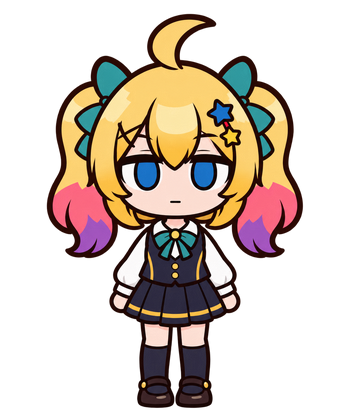
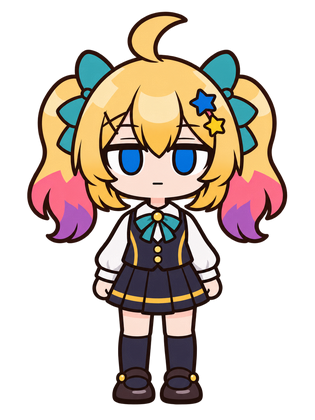
Match mascot body proportions to a shared SD reference

diff --git a/art/standing-prompt-set.md b/art/standing-prompt-set.md
@@ -1,16 +1,19 @@
 # Desktop standing sprites
 
-Built-in ImageGen edited one existing neutral character portrait at a time with a transparent background. The selected PNGs were resized to 420 pixels high for `Assets/Standing/`. The original generated PNGs remain in the Codex image output folder.
+Built-in ImageGen extended the existing neutral portraits into transparent full-body sprites. The GPT standing sprite is the shared body reference. ImageGen redrew the other five sprites using GPT's proportions and each character's original palette, clothes, and accessories. The selected PNGs were resized to 420 pixels high for `Assets/Standing/`. The original generated PNGs remain in the Codex image output folder.
 
 ## Prompt set
 
-Use the supplied neutral portrait as the character and style reference. Extend it to a complete standing SD desktop mascot. Match the hair, eyes, face, accessories, outline, and cel colors. Keep the head about 46 percent of the visible height, with a short body and legs. Both shoes must be fully visible and rest on the same baseline. Leave clear alpha around the complete figure. Use one character with no setting, text, or shadow.
+The GPT reference extends its neutral portrait to a standing sprite with a short body, large head, forward stance, and both shoes aligned to the same baseline. The prompt below uses each first-pass standing sprite as image 1 and GPT as image 2.
+
+```text
+Image 1 is the character to redraw. Image 2 is our APPROVED, PRECISE full-body SD MODEL SHEET for anatomy, proportions, pose, eye scale, outline thickness and head size. Reconstruct Image 1 with the EXACT SAME silhouette proportions and neutral forward pose as Image 2. Treat Image 2 as a drawing template: place the head crown (without hair tufts), eye line, chin, neck, shoulders, lowered hands, hip joints, knees, ankles and both shoe soles at the same relative positions and widths as Image 2. The two characters must look like siblings of equal body build when placed side-by-side, with a large equally wide round head, tiny neck, same stocky body, and two equally short legs. Their eye centers should be just as far apart. Keep the same stance, even parallel shoes and visible forearms resting at sides. Match Image 2's contour and flat cel shading. The face, hairstyle, accessories, clothing and colors are Image 1's character, as described below. Longer hair, hair ornaments, coat hems and skirts can change the outer outline only; the underlying body shape and scale must stay on the common template. Export one character fully visible, at the same framing and 3:4 vertical aspect ratio as Image 2. True transparent background, clear margin on all sides including the soles, no words, no shadow, no floor, no second figure.
+```
 
 | Sprite | Character details |
 | --- | --- |
-| `orch.png` | Peach hair with the swept curl and olive eyes. An open ivory research gown with lapels, loose sleeves, pockets, and sage trim. The hem falls below the knees. Pink shirt, straight sage trousers, and closed cream shoes. |
-| `claude.png` | Brown wavy hair, round glasses, warm beige, and dark-brown outfit accents. |
-| `gpt.png` | White hair, cyan eyes and headset accents, with white and cyan jacket and sneakers. |
-| `gemini.png` | Blonde hair with teal and pink ribbons, and the teal-and-gold outfit. |
-| `grok.png` | Long blonde hair, a black diagonal-X clip, and a dark outfit. |
-| `deepseek.png` | Navy hair, blue eyes, and a navy-and-white outfit with dark shoes. |
+| `orch.png` | Master: peach-colored short curls including one swept tuft, subdued olive eyes. Preserve the long open ivory gown and sage trim over the light pink shirt and sage trousers, with closed cream shoes. Keep two open coat fronts, visible shirt and trouser legs. The coat fronts end midway down the shins, following that common pose. Keep the gown even if the reference uses a jacket. |
+| `claude.png` | Claude: long wavy light-brown hair, round glasses, black bow and star ornament, brown-gold trim and cream blouse, brown pleated skirt and matching short boots. Preserve those colors and recognizable expression. Hair may overlap shoulders at the sides. |
+| `gemini.png` | Gemini: blonde pigtails with turquoise bows and pink-purple tips, blue eyes, star pins, gold-and-navy outfit, teal bow, skirt and shoes. A single small upward curl. Keep the pigtails outside the common head silhouette. |
+| `grok.png` | Grok: long golden blonde hair, gray eyes and one black clip with a diagonal white X, black jacket, pleated skirt, tights and boots. Preserve the hair lock shapes, colors, half-lidded expression and outfit. |
+| `deepseek.png` | DeepSeek: navy blue hair, blue eyes, two rectangular blue hair clips, white side accessories, the navy-and-white collar and skirt, matching socks and shoes. Preserve those colors and distinctive expression. |
